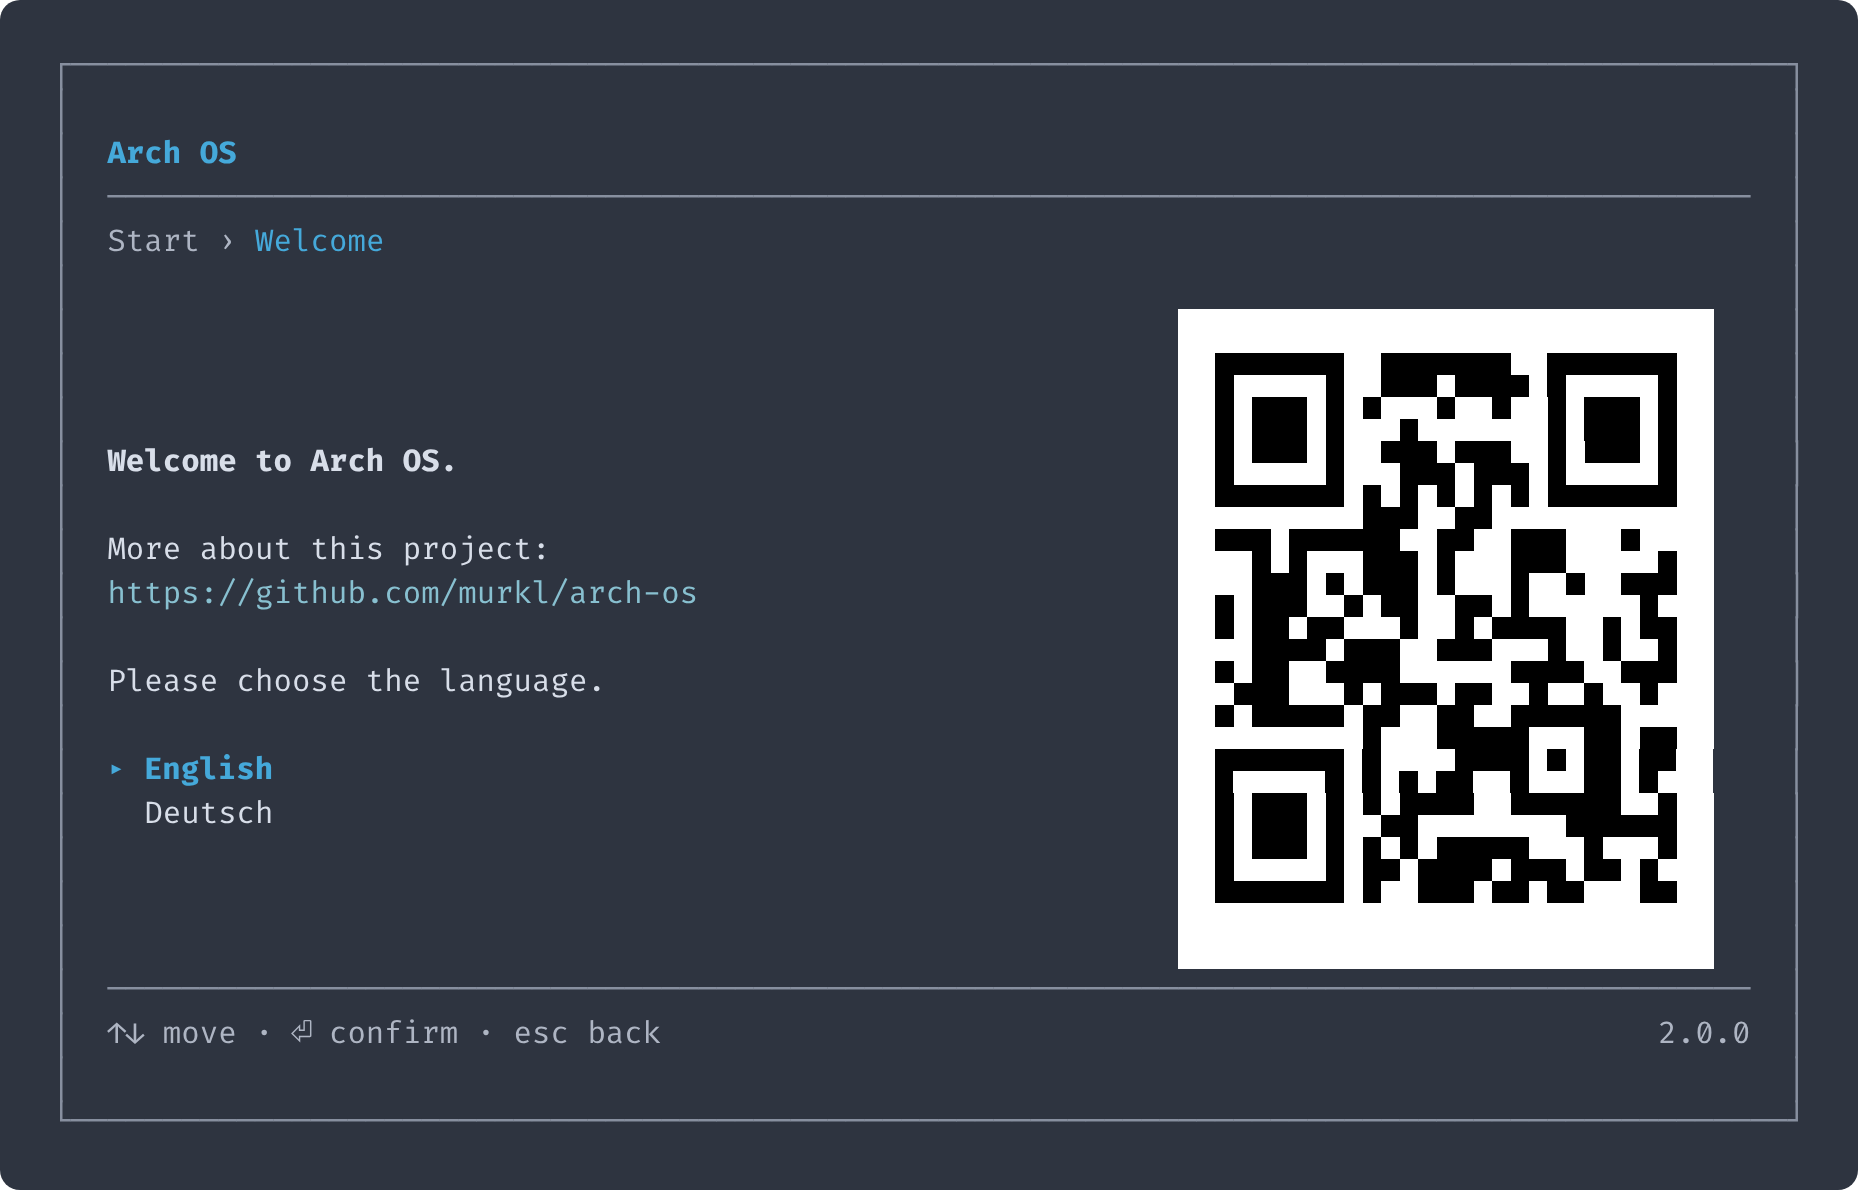
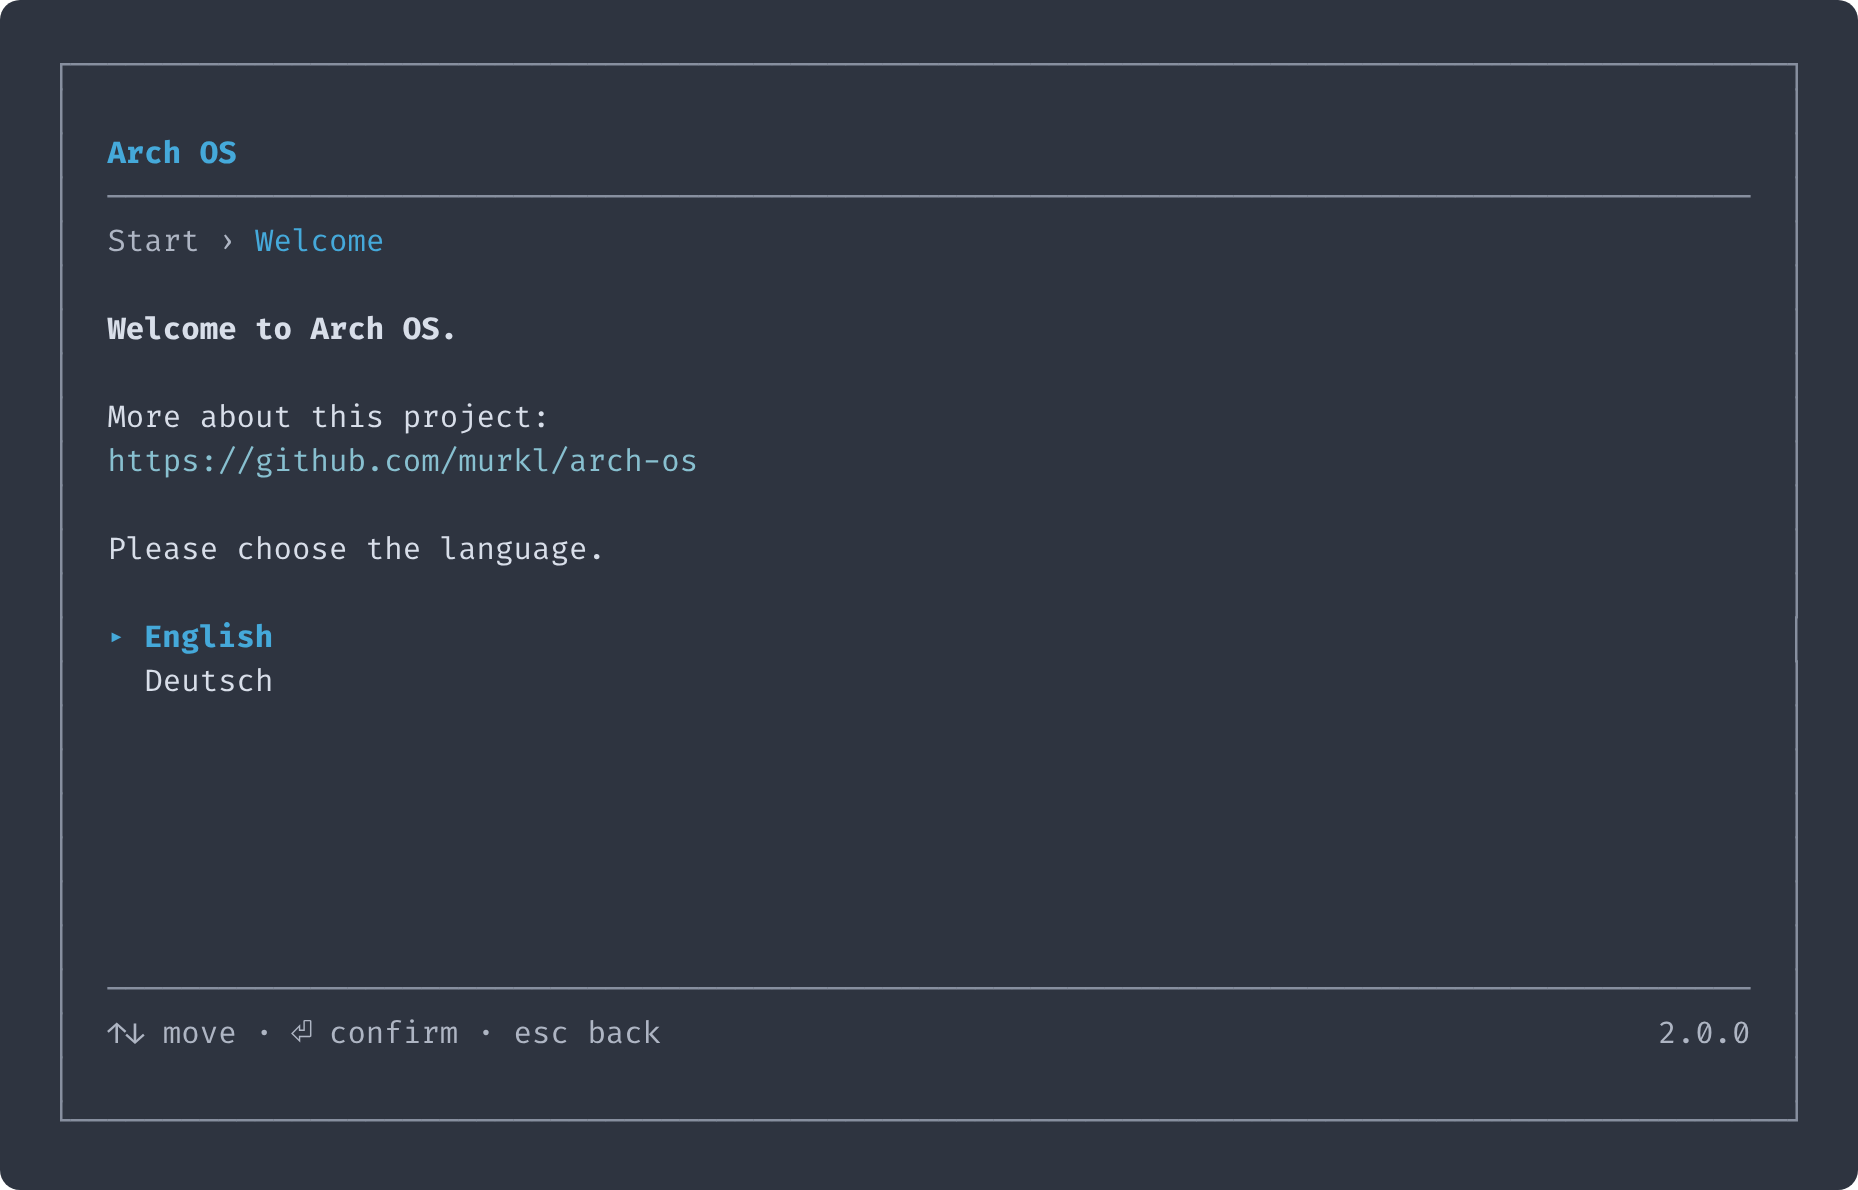
Take the code off the welcome page and pin Oak 0.4.1

diff --git a/docs/CHANGELOG.md b/docs/CHANGELOG.md
@@ -11,7 +11,7 @@ What each release changed, newest first. The version is `version:` in **[oak.yam
 - A step that fails names the module, the task, the file, the line and the exit code, and the run says how many of its tests passed
 - CachyOS tuning for memory, systemd, the journal and the I/O schedulers, `/var` split onto its own btrfs subvolumes
 - Both boot images are declared rather than left to the kernel package, whose template stopped building the fallback - an installation without disk encryption had a fallback entry in the boot menu and no image behind it
-- The welcome page says where the project is, written out and drawn beside the languages as a code to scan - the machine reading it has no browser on it yet
+- The welcome page says where the project is, written out under the greeting - the machine reading it has no browser on it yet
 - File sharing announces itself under the hostname as it stands rather than in capitals, so a file manager on the network lists `tux-desktop` and not `TUX-DESKTOP`
 - English and German, checked against the glyph table of the font the console draws with - which now also holds the marks the interface itself draws
 - One command from anywhere: `curl -Ls https://bit.ly/arch-os | bash` installs, repairs or writes a boot device, decided by the machine it opened on

diff --git a/docs/README.md b/docs/README.md
@@ -63,9 +63,9 @@ curl -Ls https://bit.ly/arch-os | bash
 
 ### 3. Boot from the USB device
 
-The Installer starts on its own. The first page says where the rest of Arch OS is - the code beside it is that address, for a phone - and asks the language:
+The Installer starts on its own. The first page says where the rest of Arch OS is and asks the language:
 
-<p><img src="screenshots/welcome.png" alt="The welcome page: the project's address as writing and as a code, and the language to read the rest in"></p>
+<p><img src="screenshots/welcome.png" alt="The welcome page: the project's address, and the language to read the rest in"></p>
 
 Then Installer or Recovery, and a starting point:
 
